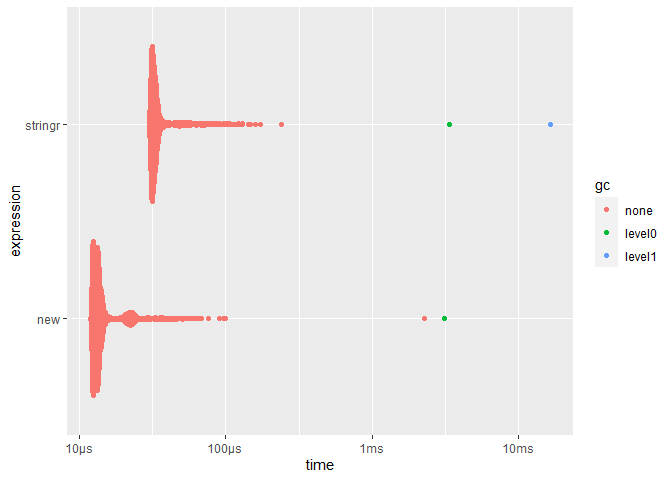
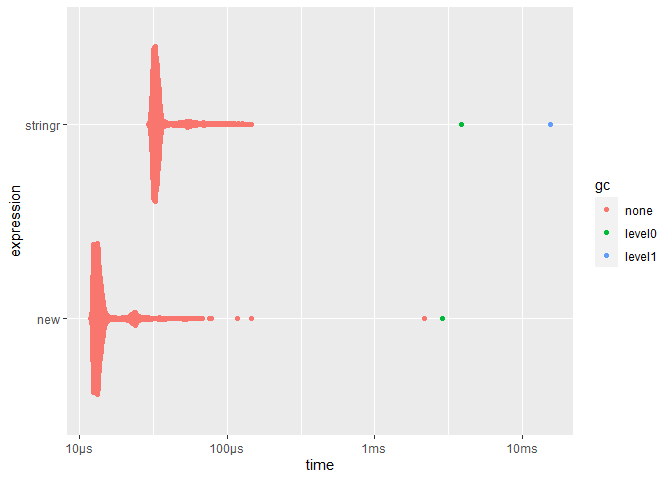
re-render

diff --git a/inst/benchmark/stringr-replace.md b/inst/benchmark/stringr-replace.md
@@ -119,8 +119,8 @@ summary(res, relative = TRUE)
     ## # A tibble: 2 × 6
     ##   expression   min median `itr/sec` mem_alloc `gc/sec`
     ##   <bch:expr> <dbl>  <dbl>     <dbl>     <dbl>    <dbl>
-    ## 1 stringr     1.42   1.47      1        1226.     5.31
-    ## 2 new         1      1         1.51        1      1
+    ## 1 stringr     1.29   1.38      1        1226.     5.99
+    ## 2 new         1      1         1.34        1      1
 
 ``` r
 ggplot2::autoplot(res)
@@ -192,8 +192,8 @@ summary(res, relative = TRUE)
     ## # A tibble: 2 × 6
     ##   expression   min median `itr/sec` mem_alloc `gc/sec`
     ##   <bch:expr> <dbl>  <dbl>     <dbl>     <dbl>    <dbl>
-    ## 1 stringr     1      1         2.43       Inf     8.11
-    ## 2 new         2.54   2.53      1          NaN     1
+    ## 1 stringr     1      1         2.33       Inf     7.76
+    ## 2 new         2.48   2.54      1          NaN     1
 
 ``` r
 ggplot2::autoplot(res)
@@ -232,8 +232,8 @@ summary(res, relative = TRUE)
     ## # A tibble: 2 × 6
     ##   expression   min median `itr/sec` mem_alloc `gc/sec`
     ##   <bch:expr> <dbl>  <dbl>     <dbl>     <dbl>    <dbl>
-    ## 1 stringr     1      1         2.44       Inf     8.15
-    ## 2 new         2.53   2.55      1          NaN     1
+    ## 1 stringr     1      1         2.32       Inf     7.74
+    ## 2 new         2.47   2.48      1          NaN     1
 
 ``` r
 ggplot2::autoplot(res)
@@ -243,9 +243,9 @@ ggplot2::autoplot(res)
 
 ## `stringr::str_dup()`
 
-| Commit                                                                                    | PR                                                 | File                                                                                                            |
-|-------------------------------------------------------------------------------------------|----------------------------------------------------|-----------------------------------------------------------------------------------------------------------------|
-| [1ce8286](https://github.com/yihui/knitr/commit/1ce82862b689338ce275269056ebfcc96eb975ca) | [\#2186](https://github.com/yihui/knitr/pull/2186) | [parser.R#L3488](https://github.com/yihui/knitr/blob/1ce82862b689338ce275269056ebfcc96eb975ca/R/parser.R#L3488) |
+| Commit                                                                                    | PR                                                 | File                                                                                                             |
+|-------------------------------------------------------------------------------------------|----------------------------------------------------|------------------------------------------------------------------------------------------------------------------|
+| [1ce8286](https://github.com/yihui/knitr/commit/1ce82862b689338ce275269056ebfcc96eb975ca) | [\#2186](https://github.com/yihui/knitr/pull/2186) | [parser.R#L348](https://github.com/yihui/knitr/blob/1ce82862b689338ce275269056ebfcc96eb975ca/R/parser.R#L348) \| |
 
 Before:
 
@@ -272,14 +272,23 @@ summary(res, relative = TRUE)
     ## # A tibble: 2 × 6
     ##   expression   min median `itr/sec` mem_alloc `gc/sec`
     ##   <bch:expr> <dbl>  <dbl>     <dbl>     <dbl>    <dbl>
-    ## 1 stringr     1      1         1.15      5.96      Inf
-    ## 2 new         1.21   1.15      1         1         NaN
+    ## 1 stringr     1      1         1.20      5.96      Inf
+    ## 2 new         1.17   1.14      1         1         NaN
 
 ``` r
 ggplot2::autoplot(res)
 ```
 
 ![](stringr-replace_files/figure-gfm/unnamed-chunk-8-1.png)<!-- -->
+
+Later, usage of `stringr::str_dup()` and its replacement `rep_str()`
+have been removed completely in
+(<https://github.com/yihui/knitr/commit/0efb7914a1be93460e510bb283f9d4d72c49b360>)
+as code was simplified in
+<https://github.com/yihui/knitr/commit/07bf3adf49f67bd528be4e6a60b3284a7ea6f8a9>
+and
+<https://github.com/yihui/knitr/commit/7ef7be00711de949fcf2a299d6381189669bb753>
+so no more impact.
 
 ## `stringr::str_split()`
 
@@ -352,8 +361,8 @@ summary(res, relative = TRUE)
     ## # A tibble: 2 × 6
     ##   expression   min median `itr/sec` mem_alloc `gc/sec`
     ##   <bch:expr> <dbl>  <dbl>     <dbl>     <dbl>    <dbl>
-    ## 1 stringr     2.51   2.45      1         2.38     1   
-    ## 2 new         1      1         2.32      1        1.16
+    ## 1 stringr     2.48   2.48      1         2.38     1   
+    ## 2 new         1      1         2.38      1        1.19
 
 ``` r
 ggplot2::autoplot(res)
@@ -449,8 +458,8 @@ summary(res, relative = TRUE)
     ## # A tibble: 2 × 6
     ##   expression   min median `itr/sec` mem_alloc `gc/sec`
     ##   <bch:expr> <dbl>  <dbl>     <dbl>     <dbl>    <dbl>
-    ## 1 stringr     1      1         1.36      9.19     1.36
-    ## 2 new         1.23   1.24      1         1        1
+    ## 1 stringr     1      1         1.21      9.19     1.21
+    ## 2 new         1.25   1.20      1         1        1
 
 ``` r
 ggplot2::autoplot(res)
@@ -517,8 +526,8 @@ summary(res, relative = TRUE)
     ## # A tibble: 2 × 6
     ##   expression   min median `itr/sec` mem_alloc `gc/sec`
     ##   <bch:expr> <dbl>  <dbl>     <dbl>     <dbl>    <dbl>
-    ## 1 stringr     3.77   3.53      1          Inf     1   
-    ## 2 new         1      1         3.73       NaN     3.73
+    ## 1 stringr     3.48   3.45      1          Inf     1   
+    ## 2 new         1      1         3.59       NaN     3.59
 
 ``` r
 ggplot2::autoplot(res)
@@ -551,8 +560,8 @@ summary(res, relative = TRUE)
     ## # A tibble: 2 × 6
     ##   expression   min median `itr/sec` mem_alloc `gc/sec`
     ##   <bch:expr> <dbl>  <dbl>     <dbl>     <dbl>    <dbl>
-    ## 1 stringr     1      1         1.14       Inf     1   
-    ## 2 new         1.16   1.16      1          NaN     1.32
+    ## 1 stringr     1      1         1.13       Inf     1   
+    ## 2 new         1.19   1.17      1          NaN     1.33
 
 ``` r
 ggplot2::autoplot(res)
@@ -593,8 +602,8 @@ summary(res, relative = TRUE)
     ## # A tibble: 2 × 6
     ##   expression   min median `itr/sec` mem_alloc `gc/sec`
     ##   <bch:expr> <dbl>  <dbl>     <dbl>     <dbl>    <dbl>
-    ## 1 stringr     3.55   3.42      1          Inf     1   
-    ## 2 new         1      1         3.48       NaN     3.48
+    ## 1 stringr     3.55   3.39      1          Inf     1   
+    ## 2 new         1      1         3.42       NaN     3.42
 
 ``` r
 ggplot2::autoplot(res)
@@ -627,8 +636,8 @@ summary(res, relative = TRUE)
     ## # A tibble: 2 × 6
     ##   expression   min median `itr/sec` mem_alloc `gc/sec`
     ##   <bch:expr> <dbl>  <dbl>     <dbl>     <dbl>    <dbl>
-    ## 1 stringr     1      1         1.23       Inf     1   
-    ## 2 new         1.22   1.25      1          NaN     1.22
+    ## 1 stringr     1      1         1.20       Inf     1   
+    ## 2 new         1.25   1.25      1          NaN     1.25
 
 ``` r
 ggplot2::autoplot(res)
@@ -725,9 +734,9 @@ summary(res, relative = TRUE)
     ## # A tibble: 3 × 6
     ##   expression    min median `itr/sec` mem_alloc `gc/sec`
     ##   <bch:expr>  <dbl>  <dbl>     <dbl>     <dbl>    <dbl>
-    ## 1 stringr      2.89   2.86      1          Inf     1.06
-    ## 2 str_replace  2.40   2.45      1.19       NaN     1.69
-    ## 3 str_insert   1      1         2.83       NaN     1
+    ## 1 stringr      2.81   2.74      1          Inf     1.28
+    ## 2 str_replace  2.47   2.41      1.11       NaN     1.89
+    ## 3 str_insert   1      1         2.34       NaN     1
 
 ``` r
 ggplot2::autoplot(res)
@@ -794,9 +803,9 @@ summary(res, relative = TRUE)
     ## # A tibble: 3 × 6
     ##   expression    min median `itr/sec` mem_alloc `gc/sec`
     ##   <bch:expr>  <dbl>  <dbl>     <dbl>     <dbl>    <dbl>
-    ## 1 stringr      3.24   3.23      1          Inf      Inf
-    ## 2 str_replace  2.93   2.89      1.16       NaN      Inf
-    ## 3 str_insert   1      1         3.35       NaN      NaN
+    ## 1 stringr      3.34   3.31      1          Inf      Inf
+    ## 2 str_replace  3.05   3.02      1.14       NaN      Inf
+    ## 3 str_insert   1      1         3.44       NaN      NaN
 
 ``` r
 ggplot2::autoplot(res)
@@ -839,8 +848,8 @@ summary(res, relative = TRUE)
     ## # A tibble: 2 × 6
     ##   expression   min median `itr/sec` mem_alloc `gc/sec`
     ##   <bch:expr> <dbl>  <dbl>     <dbl>     <dbl>    <dbl>
-    ## 1 stringr     1      1         2.08      76.1      Inf
-    ## 2 new         2.16   2.16      1          1        NaN
+    ## 1 stringr     1      1         2.13      76.1      Inf
+    ## 2 new         2.20   2.24      1          1        NaN
 
 ``` r
 ggplot2::autoplot(res)
@@ -911,8 +920,8 @@ summary(res, relative = TRUE)
     ## # A tibble: 2 × 6
     ##   expression   min median `itr/sec` mem_alloc `gc/sec`
     ##   <bch:expr> <dbl>  <dbl>     <dbl>     <dbl>    <dbl>
-    ## 1 stringr     1      1         5.06      1.74     4.60
-    ## 2 new         5.11   5.37      1         1        1
+    ## 1 stringr     1      1         5.20      1.74     4.87
+    ## 2 new         5.12   5.48      1         1        1
 
 ``` r
 ggplot2::autoplot(res)
@@ -967,8 +976,8 @@ summary(res, relative = TRUE)
     ## # A tibble: 2 × 6
     ##   expression   min median `itr/sec` mem_alloc `gc/sec`
     ##   <bch:expr> <dbl>  <dbl>     <dbl>     <dbl>    <dbl>
-    ## 1 stringr     1      1         2.19       Inf     2.41
-    ## 2 new         2.18   2.24      1          NaN     1
+    ## 1 stringr     1      1         2.12       Inf     2.33
+    ## 2 new         2.14   2.23      1          NaN     1
 
 ``` r
 ggplot2::autoplot(res)
@@ -1018,8 +1027,8 @@ summary(res, relative = TRUE)
     ## # A tibble: 2 × 6
     ##   expression   min median `itr/sec` mem_alloc `gc/sec`
     ##   <bch:expr> <dbl>  <dbl>     <dbl>     <dbl>    <dbl>
-    ## 1 stringr     12.1   12.1       1         Inf     1.01
-    ## 2 new          1      1        12.9       NaN     1
+    ## 1 stringr     13.0   12.9       1         Inf     1   
+    ## 2 new          1      1        13.9       NaN     1.16
 
 ``` r
 ggplot2::autoplot(res)
@@ -1068,8 +1077,8 @@ summary(res, relative = TRUE)
     ## # A tibble: 2 × 6
     ##   expression   min median `itr/sec` mem_alloc `gc/sec`
     ##   <bch:expr> <dbl>  <dbl>     <dbl>     <dbl>    <dbl>
-    ## 1 stringr     1      1         2.84       1        1  
-    ## 2 new         2.22   3.12      1         23.7     39.9
+    ## 1 stringr     1      1         2.83       1        1  
+    ## 2 new         2.27   2.97      1         23.7     18.4
 
 ``` r
 ggplot2::autoplot(res)
@@ -1119,8 +1128,8 @@ summary(res, relative = TRUE)
     ## # A tibble: 2 × 6
     ##   expression   min median `itr/sec` mem_alloc `gc/sec`
     ##   <bch:expr> <dbl>  <dbl>     <dbl>     <dbl>    <dbl>
-    ## 1 stringr     1      1         3.73      1        1.87
-    ## 2 new         3.62   3.87      1         4.83     1
+    ## 1 stringr     1      1         3.75      1        1.50
+    ## 2 new         3.81   3.98      1         4.83     1
 
 ``` r
 ggplot2::autoplot(res)
@@ -1171,8 +1180,8 @@ summary(res, relative = TRUE)
     ## # A tibble: 2 × 6
     ##   expression   min median `itr/sec` mem_alloc `gc/sec`
     ##   <bch:expr> <dbl>  <dbl>     <dbl>     <dbl>    <dbl>
-    ## 1 stringr     1      1         3.66       1       1   
-    ## 2 new         3.85   3.97      1         93.8     1.09
+    ## 1 stringr     1      1         4.06       1       1.35
+    ## 2 new         4.01   4.30      1         93.8     1
 
 ``` r
 ggplot2::autoplot(res)
@@ -1256,8 +1265,8 @@ summary(res, relative = TRUE)
     ## # A tibble: 2 × 6
     ##   expression   min median `itr/sec` mem_alloc `gc/sec`
     ##   <bch:expr> <dbl>  <dbl>     <dbl>     <dbl>    <dbl>
-    ## 1 stringr     1      1         3.33       1       6.65
-    ## 2 new         3.42   3.54      1         75.8     1
+    ## 1 stringr     1      1         3.59       1       7.17
+    ## 2 new         3.55   3.74      1         75.8     1
 
 ``` r
 ggplot2::autoplot(res)
@@ -1307,8 +1316,8 @@ summary(res, relative = TRUE)
     ## # A tibble: 2 × 6
     ##   expression   min median `itr/sec` mem_alloc `gc/sec`
     ##   <bch:expr> <dbl>  <dbl>     <dbl>     <dbl>    <dbl>
-    ## 1 stringr     1      1         3.13      1        1   
-    ## 2 new         3.30   3.24      1         1.63     1.28
+    ## 1 stringr     1      1         3.05      1        1   
+    ## 2 new         3.22   3.30      1         1.63     2.30
 
 ``` r
 ggplot2::autoplot(res)
@@ -1372,8 +1381,8 @@ summary(res, relative = TRUE)
     ## # A tibble: 2 × 6
     ##   expression   min median `itr/sec` mem_alloc `gc/sec`
     ##   <bch:expr> <dbl>  <dbl>     <dbl>     <dbl>    <dbl>
-    ## 1 stringr     1      1         3.20       Inf     6.40
-    ## 2 new         3.12   3.39      1          NaN     1
+    ## 1 stringr     1      1         3.22       Inf     6.44
+    ## 2 new         3.17   3.36      1          NaN     1
 
 ``` r
 ggplot2::autoplot(res)
@@ -1436,8 +1445,8 @@ summary(res, relative = TRUE)
     ## # A tibble: 2 × 6
     ##   expression   min median `itr/sec` mem_alloc `gc/sec`
     ##   <bch:expr> <dbl>  <dbl>     <dbl>     <dbl>    <dbl>
-    ## 1 stringr     1      1         3.72       1       1.24
-    ## 2 new         3.78   3.91      1         93.8     1
+    ## 1 stringr     1      1         3.81       1       1   
+    ## 2 new         3.85   3.96      1         93.8     1.05
 
 ``` r
 ggplot2::autoplot(res)
@@ -1503,8 +1512,8 @@ summary(res, relative = TRUE)
     ## # A tibble: 2 × 6
     ##   expression   min median `itr/sec` mem_alloc `gc/sec`
     ##   <bch:expr> <dbl>  <dbl>     <dbl>     <dbl>    <dbl>
-    ## 1 stringr     1      1         4.32      1        1   
-    ## 2 new         4.33   4.52      1         6.75     1.27
+    ## 1 stringr     1      1         4.45      1        1.11
+    ## 2 new         4.26   4.75      1         6.75     1
 
 ``` r
 ggplot2::autoplot(res)
